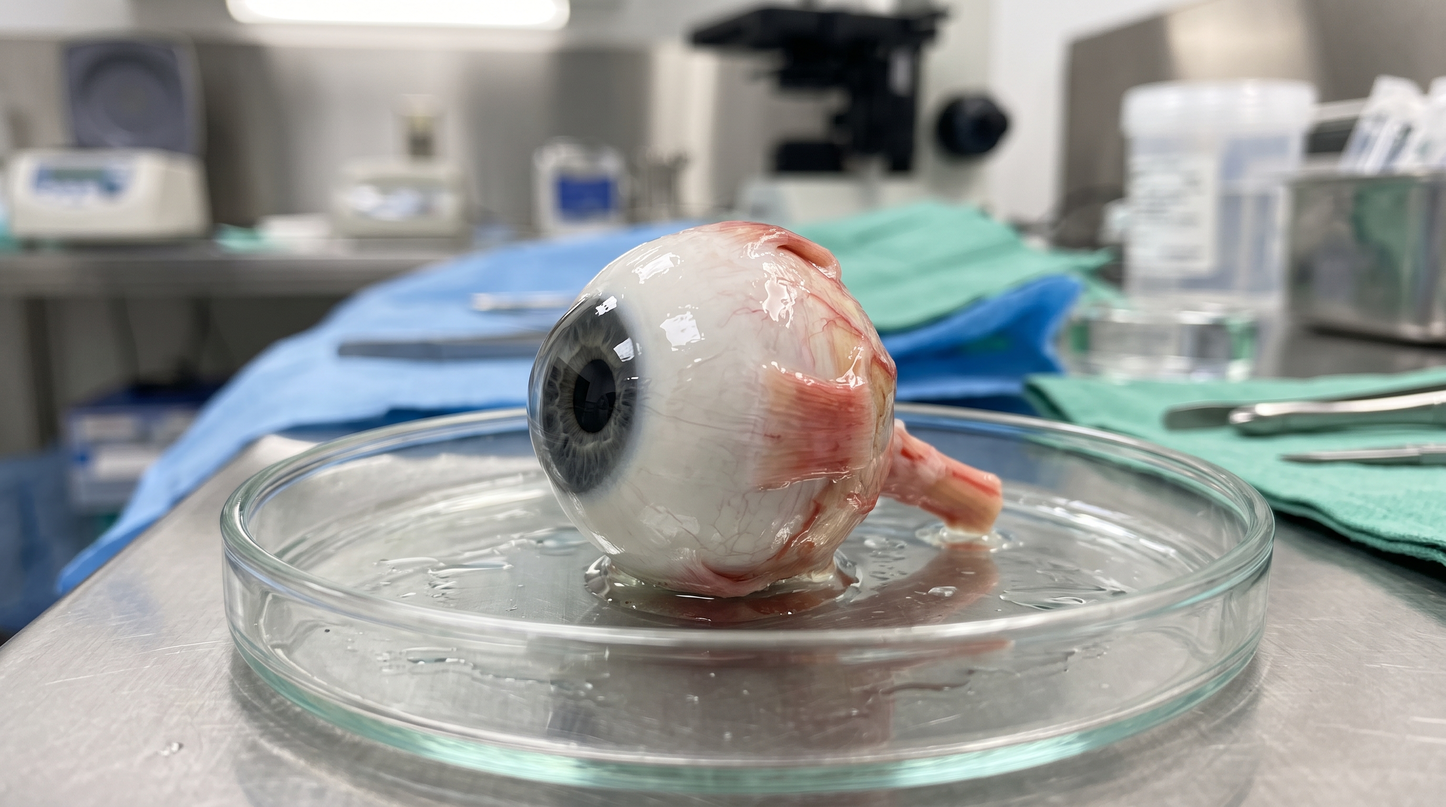
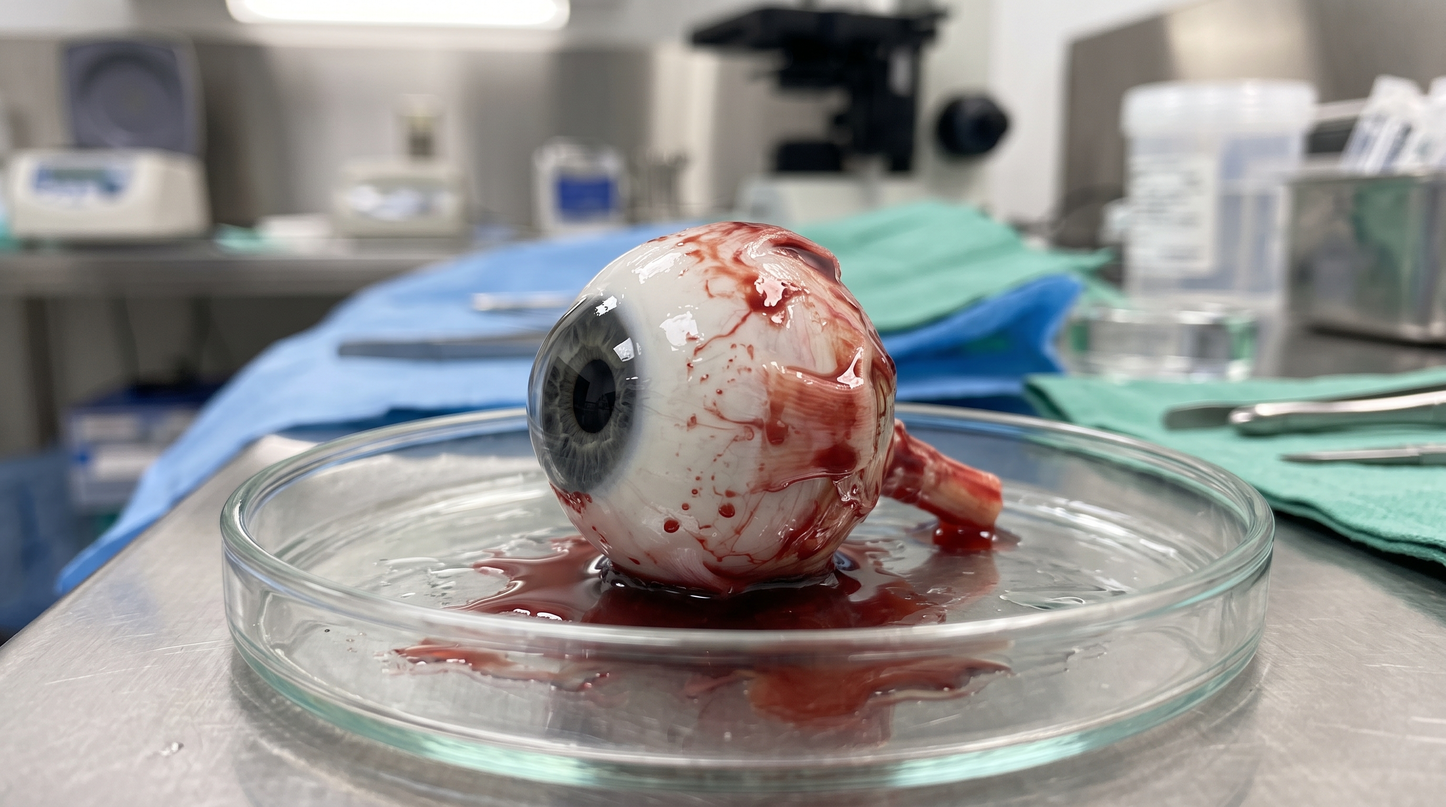
chore: remove unused auth background alternates (PLANS 0.3)

Changed region(s): [[0.2812, 0.25, 0.7188, 0.9062], [0.4062, 0.9375, 0.625, 1.0]]

diff --git a/docs/PLANS.md b/docs/PLANS.md
@@ -5,7 +5,8 @@
 > **Contract Reference:** Cooperation Agreement No. 001/PKS-TGI/VIII/2026 & 818/UN.1/FK-KMK.2/MT2/KS/2026  
 > **Contract Value:** IDR 35,000,000 (Fixed Price, Non-VAT/Non-PKP)  
 > **Timeline:** 16 Calendar Weeks (4 Months)  
-> **Lead Software Architect & Tech Lead:** Ariefan Dipokusumo Wibowo, S.Kom., M.Cs.  
+> **Lead Software Architect & Tech Lead:** Ariefan Dipokusumo Wibowo, S.Kom., M.Cs.
+> **Last Updated:** 2026-10-15 — added scope-trim & gap-closure execution checklist (Phases 0–6) after the PKS-vs-implementation audit
 
 ---
 
@@ -98,7 +99,7 @@ flowchart TD
 
 ## 4. Comprehensive Per-Page & Per-Feature Curriculum Blueprint
 
-The entire DRIVE-Learn curriculum consists of **6 Modules and 31 Interactive Slides/Pages**:
+The entire DRIVE-Learn curriculum consists of **6 Modules and 33 Interactive Slides/Pages** (numbered 1–32, with a second page on slide 17):
 
 | No | Page ID | Slide | Type | Title / Topic | Specific Interactive Features |
 |:--:|:---|:---:|:---:|:---|:---|
@@ -138,29 +139,22 @@ The entire DRIVE-Learn curriculum consists of **6 Modules and 31 Interactive Sli
 
 ---
 
-## 5. Proposed Codebase Changes by Package
+## 5. Implementation State by Package (verified 2026-10-15)
 
-### 1. `packages/ui` (Design Tokens & Theming)
-- **`packages/ui/src/styles/globals.css`:** Inject DRIVE clinical colors into the Tailwind v4 / shadcn token theme:
-  - `--clinical-navy: #173a5e;`
-  - `--clinical-blue: #2d77c2;`
-  - `--retina-teal: #5bb4b2;`
-  - `--clinical-wrong: #c0392b;`
-  - `--clinical-correct: #2c7a4b;`
+### 1. `packages/ui` (Design Tokens & Theming) — DONE
+- DRIVE clinical colors are merged into the custom theme (Tailwind v4 / shadcn tokens, `packages/ui/src/styles/globals.css`); the SPA landing/workspace chrome already renders on it.
 
-### 2. `apps/api` (Database & Backend Services)
-- **`apps/api/src/db/app-schema.ts`:**
-  - Enhance `participantProfiles` with `profession`, `institutionName`, `strNumber`, `phone`, `birthDate`.
-  - Add `learningTelemetryLogs` table (`id`, `userId`, `courseId`, `moduleId`, `slideId`, `enteredAt`, `exitedAt`, `durationSeconds`, `audioListenedSeconds`, `interactedElements`, `createdAt`).
-- **`apps/api/src/modules/telemetry/`:**
-  - `POST /v1/telemetry/heartbeat`: Ingests background beacons via `navigator.sendBeacon`.
-  - `GET /v1/reports/telemetry/csv`: Generates and streams raw CSV telemetry reports for FK-KMK researchers.
+### 2. `apps/api` (Database & Backend Services) — core DONE, gaps below
+- `participantProfiles` already carries `profession`, `institutionName`, `strNumber`, `phone`, `birthDate` (+ education/experience/certifications JSONB) — served at `/participant-profiles`.
+- `learningTelemetryLogs` table exists (`enteredAt`, `exitedAt`, `durationSeconds`, `audioListenedSeconds`, `interactedElements`, `sessionId`), fed by `POST /telemetry/events` (view/heartbeats from `use-slide-telemetry`) and exported via `GET /reports/telemetry/export` (CSV, joined with participant profession/institution/STR for FK-KMK research).
+- **Remaining gaps:** no aggregate telemetry endpoint (in-app charts are mocked client-side → Task 3.1); uploads service accepts images only — no PDF/PPT/Word/video/audio magic-byte detection or purposes (→ Task 2.1).
 
-### 3. `apps/app` (Frontend Application & Player Components)
-- **`apps/app/src/routes/register.tsx`:** Updated registration form collecting full doctor metadata.
-- **`apps/app/src/components/composed/player/clinical-fundus-grading.tsx`:** Fundus grader replacing circular pins with **SVG Arrow Pointers** and styling incorrect selections with **Crimson Red background**.
-- **`apps/app/src/components/composed/player/interactive-slide-viewer.tsx`:** Core player supporting fit-to-screen viewports, 2-column auto-reveal animated lists, sequential 1-8 pulse guide, clean paragraph transcripts, audio narration bar, and 2D/3D anatomy viewer.
-- **`apps/app/src/components/composed/player/completion-retake-card.tsx`:** Post-test completion screen offering score confirmation, retake trigger, and automated certificate issuance.
+### 3. `apps/app` (Frontend Application & Player Components) — player DONE, gaps below
+- `routes/register.tsx` collects full doctor metadata (name+titles, DOB, phone, profession, instansi, provinsi/kabupaten, STR) — review #11.
+- `clinical-fundus-grading.tsx` renders **SVG arrow pointers** (lesions never covered) and **crimson-red wrong-answer boxes** — reviews #7–8.
+- `interactive-slide-viewer.tsx` supports fit-to-screen viewport, 2-column audio-synced auto-reveal lists, sequential 1–8 pulse guide, paragraph transcripts + audio narration bar, 2D anatomy stage — reviews #1, #3–6, #12.
+- The satisfaction prompt + retake and locked-name certificate claim live in `clinical-quiz-runner.tsx` (there is no separate `completion-retake-card.tsx`) — reviews #9–10.
+- **Remaining gaps:** generic (non-DRIVE) lesson player renders `text`/`video` only — `audio`/`document` lessons hit an `EmptyState` (→ Task 2.3); the content editor's document/video fields are URL-only text inputs with no upload (→ Task 2.2); the registration profile is staged through `localStorage` and PATCHed on first login with failures swallowed — silent data-loss path (→ Task 2.5); the DRIVE course content is a hardcoded TS module selected by a course-title heuristic, not server-managed content (→ Tasks 4.1–4.2).
 
 ---
 
@@ -168,11 +162,84 @@ The entire DRIVE-Learn curriculum consists of **6 Modules and 31 Interactive Sli
 
 | Phase / Milestone | Deliverables Scope | Duration | Weight | Value (IDR) |
 |---|---|:---:|:---:|---:|
-| **Milestone 1 (Down Payment)** | SRS Document, Medical Design Tokens, Telemetry & Multi-Course DB Schema, 31-Slide Wireframes | Weeks 1 - 4 | 30% | IDR 10,500,000 |
+| **Milestone 1 (Down Payment)** | SRS Document, Medical Design Tokens, Telemetry & Multi-Course DB Schema, 33-Slide Wireframes | Weeks 1 - 4 | 30% | IDR 10,500,000 |
 | **Milestone 2** | Full Doctor Registration, Centered Fit-to-Screen Player, Module 1-2 Slide Engine, 2-Col Audio List, Audio Narration Bar | Weeks 5 - 8 | 30% | IDR 10,500,000 |
 | **Milestone 3** | Fundus Grader (Arrow Pins & Red Error Box), Pre/Post Evaluation Engine, Retake Trigger, Locked Name Certificate, Telemetry Logging & CSV Export | Weeks 9 - 12 | 25% | IDR 8,750,000 |
 | **Milestone 4 (Final)** | UAT with FK-KMK DRIVE Team, Dedicated Cloud VPS Deployment (Ubuntu 2 vCPU / 8 GB RAM / NVMe), 2 Online Training Sessions, User Manual & Final BAST | Weeks 13 - 16 | 15% | IDR 5,250,000 |
 | **TOTAL** | **Full Completion of All PKS No. 001/PKS-TGI/VIII/2026 Deliverables** | **16 Weeks** | **100%** | **IDR 35,000,000** |
+
+### 6.1 Task Checklist & Update Convention
+
+> **How to use this checklist:** it is the single source of execution truth. Mark a task `- [x]` **immediately after completing it**, appending the completion date (and commit hash when handy). Statuses: `[ ]` pending · `[x]` done · `[~]` in progress · `[-]` dropped (state the reason). Tasks are ordered so each phase lands independently green (`pnpm validate` + parity script + smoke suites).
+
+**Guiding rule (from the 2026-10-15 audit):** the PKS contracts three pillars — auth/RBAC, course & content management, interactive learning + quiz/assessment. Everything else is only justified by an explicit review note. The platform currently serves ~22 API modules where the contract justifies ~10; Phases 1–6 close that gap.
+
+#### Phase 0 — Audit & Housekeeping
+- [x] 0.1 Replace auth page background with customer-provided artwork (`apps/app/public/images/eyeball-auth-bg.jpg`, referenced by `auth-page.tsx:47`) — 2026-10-15
+- [x] 0.2 Scope audit vs PKS Pasal 3 + review CSV: full endpoint/feature inventory, removal candidates, gap list (source of Phases 1–6) — 2026-10-15
+- [x] 0.3 Delete unused auth background alternates (`abstract-eye-auth-bg.jpg`, `indonesia-auth-bg.jpg`, `ophthalmologist-auth-bg.jpg`) — 2026-10-15
+- [ ] 0.4 Purge stale `references`-domain comments (`app-schema.ts` auditLog header, `audit.tsp` header) — the domain no longer exists anywhere
+
+#### Phase 1 — Out-of-Scope Removals (safe, mechanical)
+Nothing in the PKS or the 15 review notes asks for commerce, classroom attendance, psychometric assessments, or a forum. Removal order per domain: frontend routes/components → contracts `.tsp` → regenerate (`pnpm --filter @workspace/contracts build`) → API module + Drizzle tables + migration → reports/seed/smoke-test references → parity script green → `pnpm validate`.
+
+- [ ] 1.1 **Payments & commerce**: remove `routes/orders.tsx`, `routes/wishlist.tsx`, `components/composed/payments/*` (payments panel, coupon manager, order badge), `enroll-panel.tsx` checkout/coupon funnel (keep instant free `POST /enrollments`), editor tabs `editor-payments.tsx`/`editor-coupons.tsx`, `routes/institution/orders.tsx`, admin financial widgets + `/admin/financial-summary`, `lib/format.ts` `formatRupiah`; API `modules/payments`, `modules/wishlist`, `lib/stripe.ts`, `coupons`/`orders` tables; contracts `payments.tsp`, `wishlist.tsp`; parity exclusion entry `POST /payments/webhook`; institution revenue + orders CSV export in reports; seed + smoke tests
+- [ ] 1.2 **Attendance (QR + geofence)**: remove `routes/learn/attendance.tsx`, `routes/attendance-display.tsx`, `components/composed/attendance/*`, `attendance-manager.tsx` + `editor-attendance.tsx`, deps `jsqr`/`qrcode`; API `modules/attendance`, `attendanceSessions`/`attendanceRecords` tables, attendance columns in course report + `CourseReportPanel` H/T/A columns; contracts `attendance.tsp`; seed + smoke tests
+- [ ] 1.3 **Standalone assessments** (`/assessments`, `/admin/assessments`, RIASEC-style): remove routes + `QuizManager` assessment scope; drop the quizzes `courseId = null` branch and per-category scoring (`category`, `optionWeights`, `categoryScores`) after verifying no remaining consumer
+- [ ] 1.4 **Discussions**: remove `routes/learn/discussions.tsx`, `components/composed/discussions/*`, player nav links; API `modules/discussions`, `discussions`/`discussionReplies` tables; contracts `discussions.tsp`; seed + smoke tests
+- [ ] 1.5 **Post-removal hygiene**: contracts regenerated, `node scripts/check-api-contract-parity.mjs` green, `pnpm validate` green, pruned smoke suites pass, `/dev/reset-seed` verified in browser
+
+#### Phase 2 — PKS Gap Closure (contracted features, additive)
+- [ ] 2.1 **Upload service extensions**: magic-byte detection + purposes for `document` (PDF/PPT/Word), `video`, `audio` in `uploads.service.ts` (currently image-only; media would store as `application/octet-stream`); size caps per kind
+- [ ] 2.2 **Content editor uploads**: wire `FileUploadWidget` into `content-editor.tsx` for document/audio/video lesson types (replace URL-only text input; keep URL option for YouTube/Vimeo embeds)
+- [ ] 2.3 **Generic lesson player rendering**: render `document` lessons (PDF inline via `<iframe>`/`<object>` + download link; PPT/Word as download card) and `audio` lessons (native player) in `routes/learn/lesson.tsx` — both currently fall through to an `EmptyState`
+- [ ] 2.4 **Video streaming check**: verify uploaded mp4 playback through the uploads byte route; add HTTP `Range` support if seeking/streaming breaks
+- [ ] 2.5 **Registration atomicity**: replace the `localStorage` `pending_doctor_profile` handoff (PATCHed on first login at `login.tsx:42-51`, failures swallowed = silent data loss) with atomic server-side profile creation at signup (Better Auth hook or guaranteed retry)
+
+#### Phase 3 — Real Learning Analytics (Review #15)
+- [ ] 3.1 **Aggregate telemetry endpoint**: `GET /courses/{courseId}/telemetry-summary` — dwell by hour-of-day/day-of-week, median + total study time, per-participant totals — computed from `learningTelemetryLogs`; contract it (reports.tsp or telemetry.tsp)
+- [ ] 3.2 **Replace mocked report visuals**: `course-report-panel.tsx` heatmap (lines ~29–41), 30-day trend (~46–52), and hardcoded "Median Waktu / 48 menit" (~172) switch to real endpoint data
+- [ ] 3.3 **Admin dashboard study-time widgets**: replace the removed financial summary with platform-wide study-time/engagement stats
+
+#### Phase 4 — Multi-Course Readiness (Review #13) & Server-Side Post-Test
+- [ ] 4.1 **Server-managed slide content**: move `DRIVE_RETINOPATHY_COURSE` out of the hardcoded `lib/content/drive-retinopati-data.ts` TS module into per-course server-managed content (JSON manifest on the course or a dedicated table); assets stay in public/ or uploads
+- [ ] 4.2 **Kill the title heuristic**: replace the `"drive"/"retinopati"` course-title check (`routes/learn/lesson.tsx:56-59`) with courseId/content-type-based resolution
+- [ ] 4.3 **Server-side post-test**: route the evaluasi module through the real quiz engine (`quiz_attempts` persisted, server-side grading, scores visible in course reports) while preserving the review-#9 satisfaction/retake UX (`maxAttempts = 0` = unlimited)
+- [ ] 4.4 **Minimum authoring path for new courses**: manifest import + thumbnail so the DRIVE team can add the planned AMD/DME follow-up courses without code changes
+
+#### Phase 5 — Single-Tenant Collapse & 3-Role RBAC ⚠ needs explicit go-ahead (invasive)
+The PKS names exactly three roles (Admin, Instruktur, Dokter Peserta) and one customer. The institutions layer (requests, ownerships, switcher, owner shell) is multi-tenancy the contract never asked for; review #11's "instansi" is a profile *field*, which already exists.
+- [ ] 5.1 Remove institution-request + ownership surfaces: `/institution-requests`, `/admin/institutions` queue, owner shell pages (`/institution/*`), `InstitutionSwitcher`, `lib/authoring-institution.ts`, dashboard "Institusi Saya" section, `lib/institution-ownership.ts` cache
+- [ ] 5.2 Refactor access gates: `course-access.ts` + course create/edit/certificate gates move from institution-ownership to admin | instructor-membership; `ManagementShell` sidebar groups collapse (no scope switcher); `UserRole` stays `user | admin` (membership rule in AGENTS.md unchanged)
+- [ ] 5.3 Decide the `institutions` table's fate — recommendation: keep exactly one seeded row ("FK-KMK UGM") as display name/logo source for courses + certificates, drop the rest of the surface
+- [ ] 5.4 Contracts regen (`institutions.tsp` trim), ownership-based smoke tests rewritten, seed reset, AGENTS.md refreshed
+
+#### Phase 6 — Optional Trims (each pending confirmation; default = keep)
+- [ ] 6.1 Assignments domain (quizzes already cover essay + instructor grading via `pending_review`)
+- [ ] 6.2 Announcements + notifications email fanout (candidate: keep in-app only, drop transactional email)
+- [ ] 6.3 Audit log module
+- [ ] 6.4 Enrollment funnel simplification (drop the `interviewed` stage → enrolled/graduated/failed)
+- [ ] 6.5 Multi-instructor management (`/instruktur` tab, invites, co-instructor roles) → single instructor per course
+
+### 6.2 Review Note Disposition (verified 2026-10-15)
+
+| # | Note (abridged) | Status | Evidence / Remaining work |
+|:--:|---|---|---|
+| 1 | Transcript readability | ✅ Implemented | `transcript-viewer.tsx` + per-page `transcript`; future tweaks are content-data edits |
+| 2 | 2D-only anatomy | ✅ Implemented | `eye-anatomy-viewer.tsx` 2D SVG stage; 3D slot reserved, not built (correct) |
+| 3 | Centered layout | ✅ Implemented | viewport-clamped player container |
+| 4 | Clearer slide instructions | ✅ Implemented | instruction banner + sequential 1–8 pulse guide (`sequential-hotspot-viewer.tsx`) |
+| 5 | Auto-reveal synced to narration | ✅ Implemented | `animated-reveal-list.tsx`, cue-time based |
+| 6 | Two-column item lists | ✅ Implemented | slide 7 grid layout |
+| 7 | Arrows instead of circle markers | ✅ Implemented | `clinical-fundus-grading.tsx` SVG arrows, offset labels |
+| 8 | Red wrong-answer box | ✅ Implemented | crimson styling on incorrect selections |
+| 9 | Satisfaction prompt + retake for all | ✅ Implemented (client-side) | `clinical-quiz-runner.tsx:146-171`; server-side persistence → Task 4.3 |
+| 10 | Certificate name from login | ✅ Implemented | `certificates.service.ts:111` from `users.name`; no freeform input anywhere |
+| 11 | Richer registration fields | ✅ Implemented | `register.tsx` + `participant_profiles`; atomicity gap → Task 2.5 |
+| 12 | Fit-to-screen typography | ✅ Implemented | player viewport clamp, no vertical scroll |
+| 13 | Multi-course (AMD, DME) readiness | ⚠ Partial | hardcoded TS content + title heuristic → Tasks 4.1–4.4 |
+| 14 | DRIVE-recorded voiceover | ◻ Infra ready | per-slide mp3 pipeline shipped; final audio awaited from DRIVE team |
+| 15 | Timestamp / study-duration analytics | ⚠ Partial | telemetry collection + research CSV real; in-app heatmap/trend/median are client-side mocks → Tasks 3.1–3.3 |
 
 ---
 
